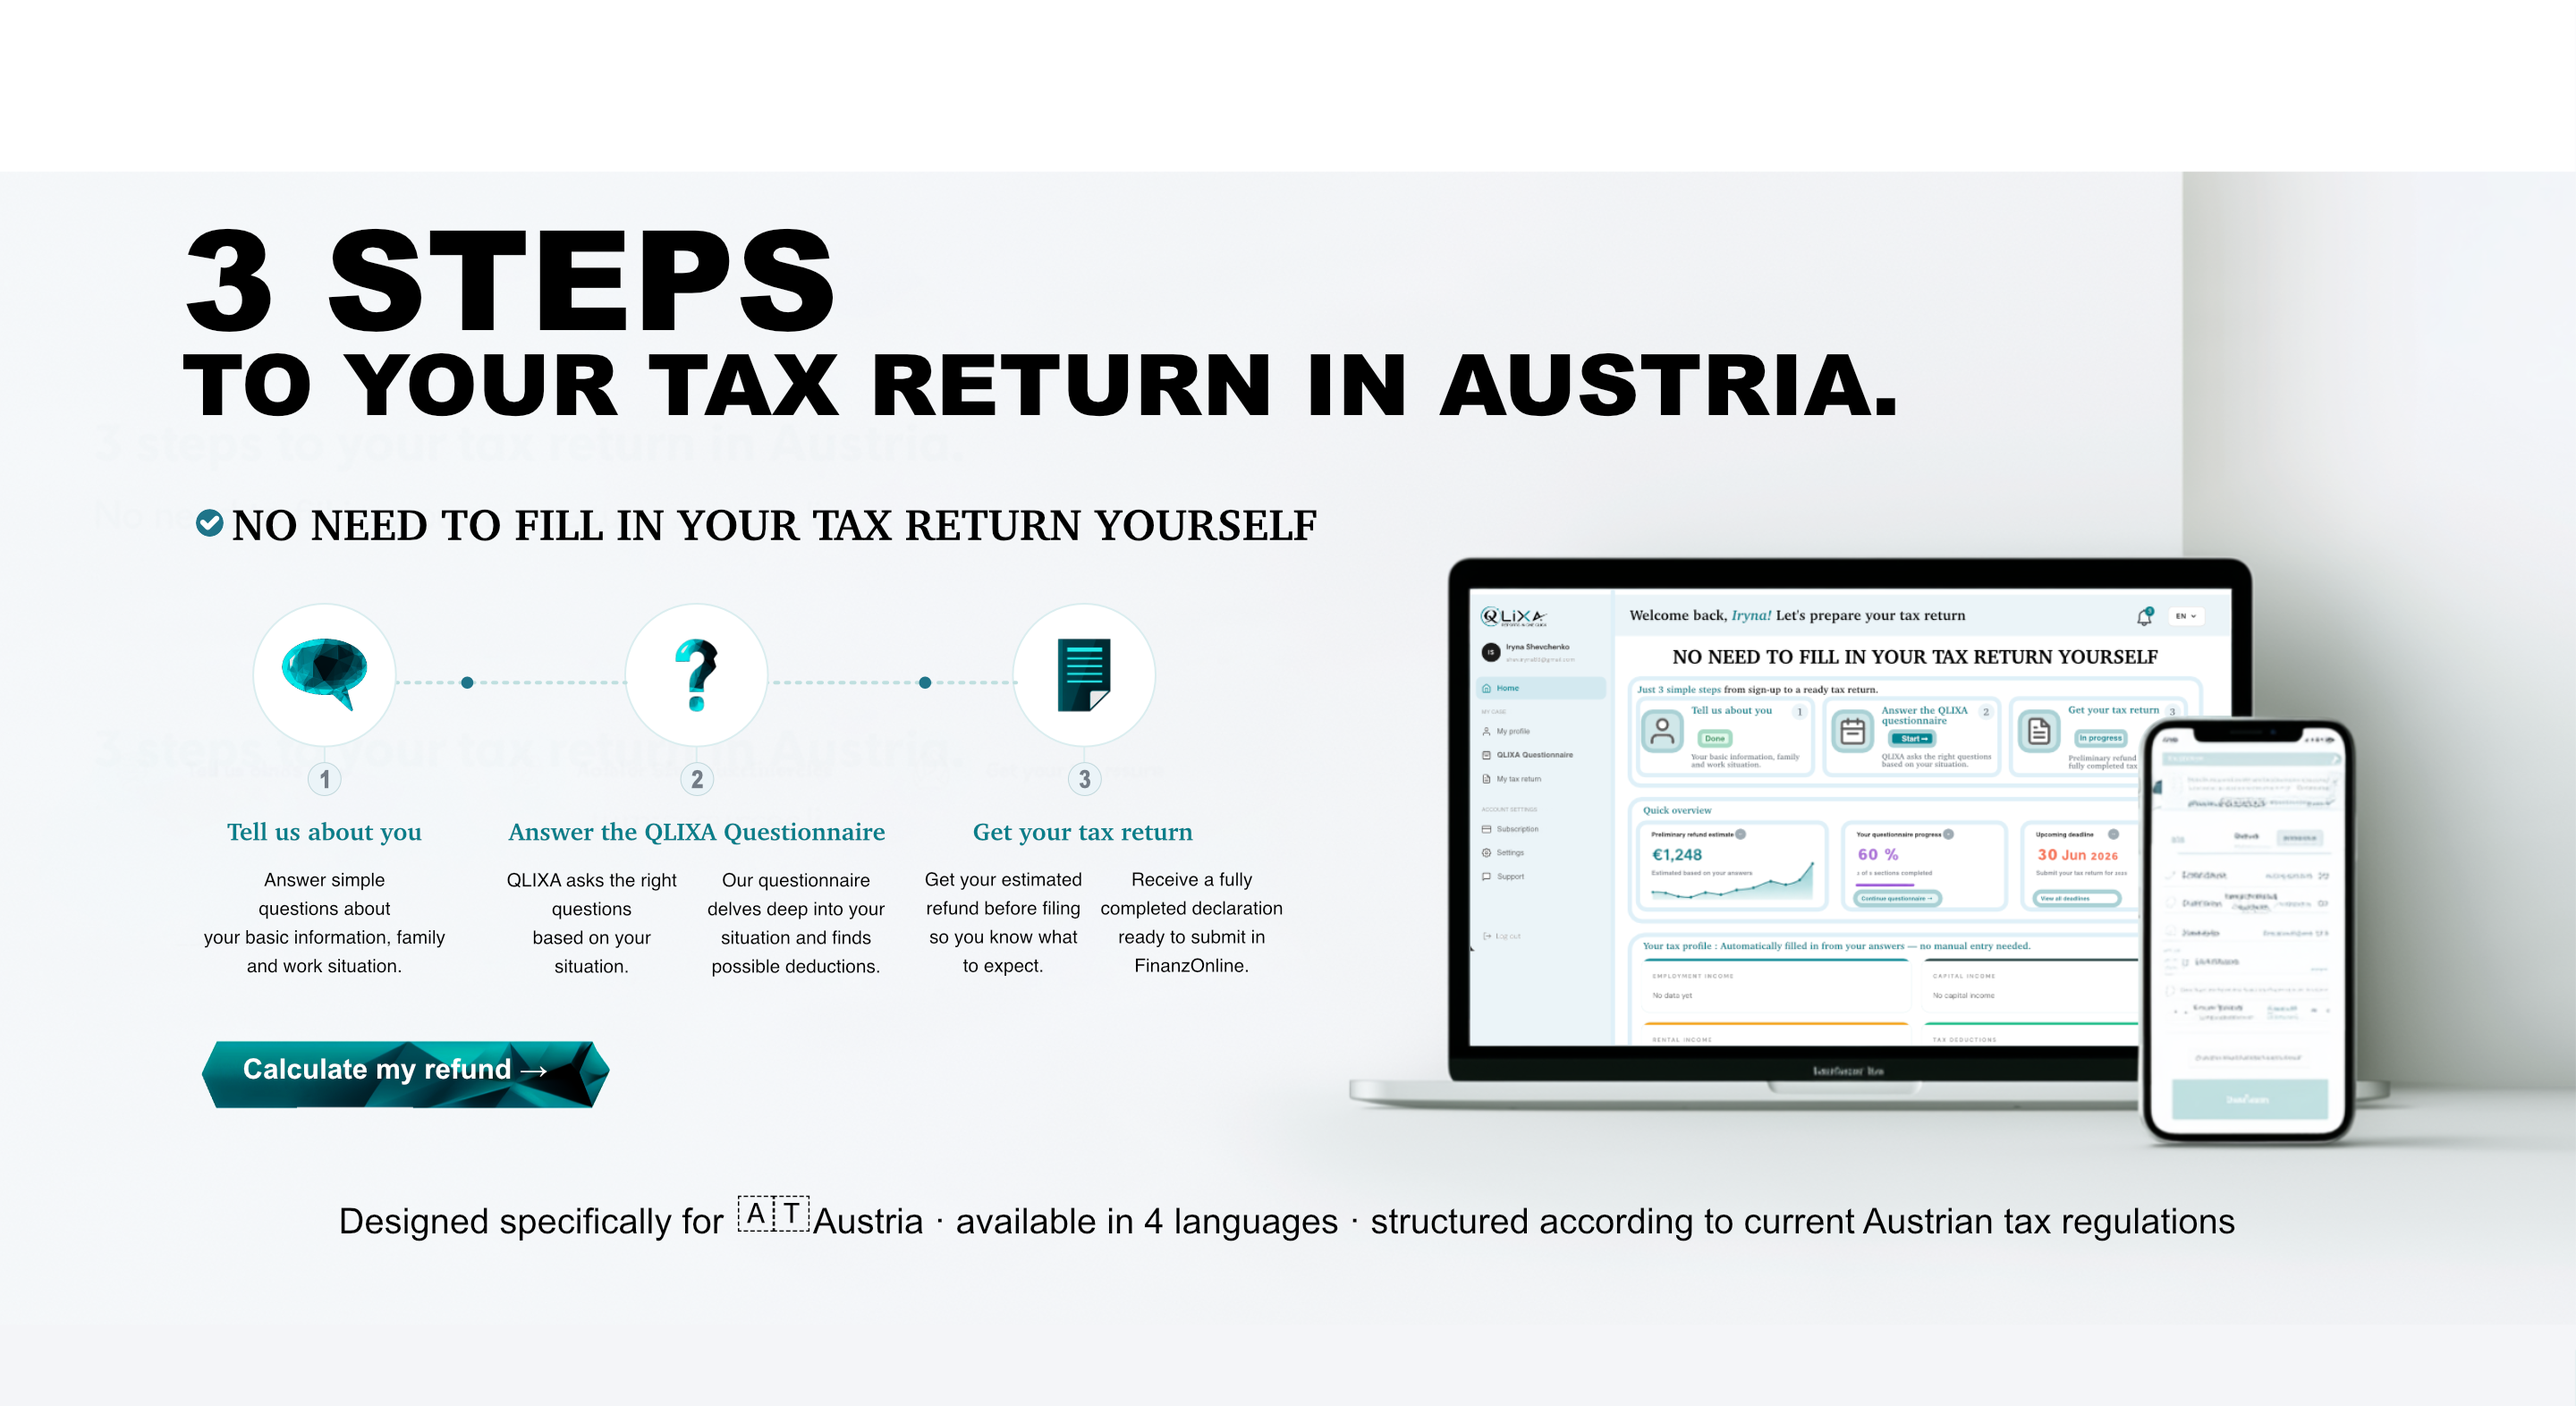
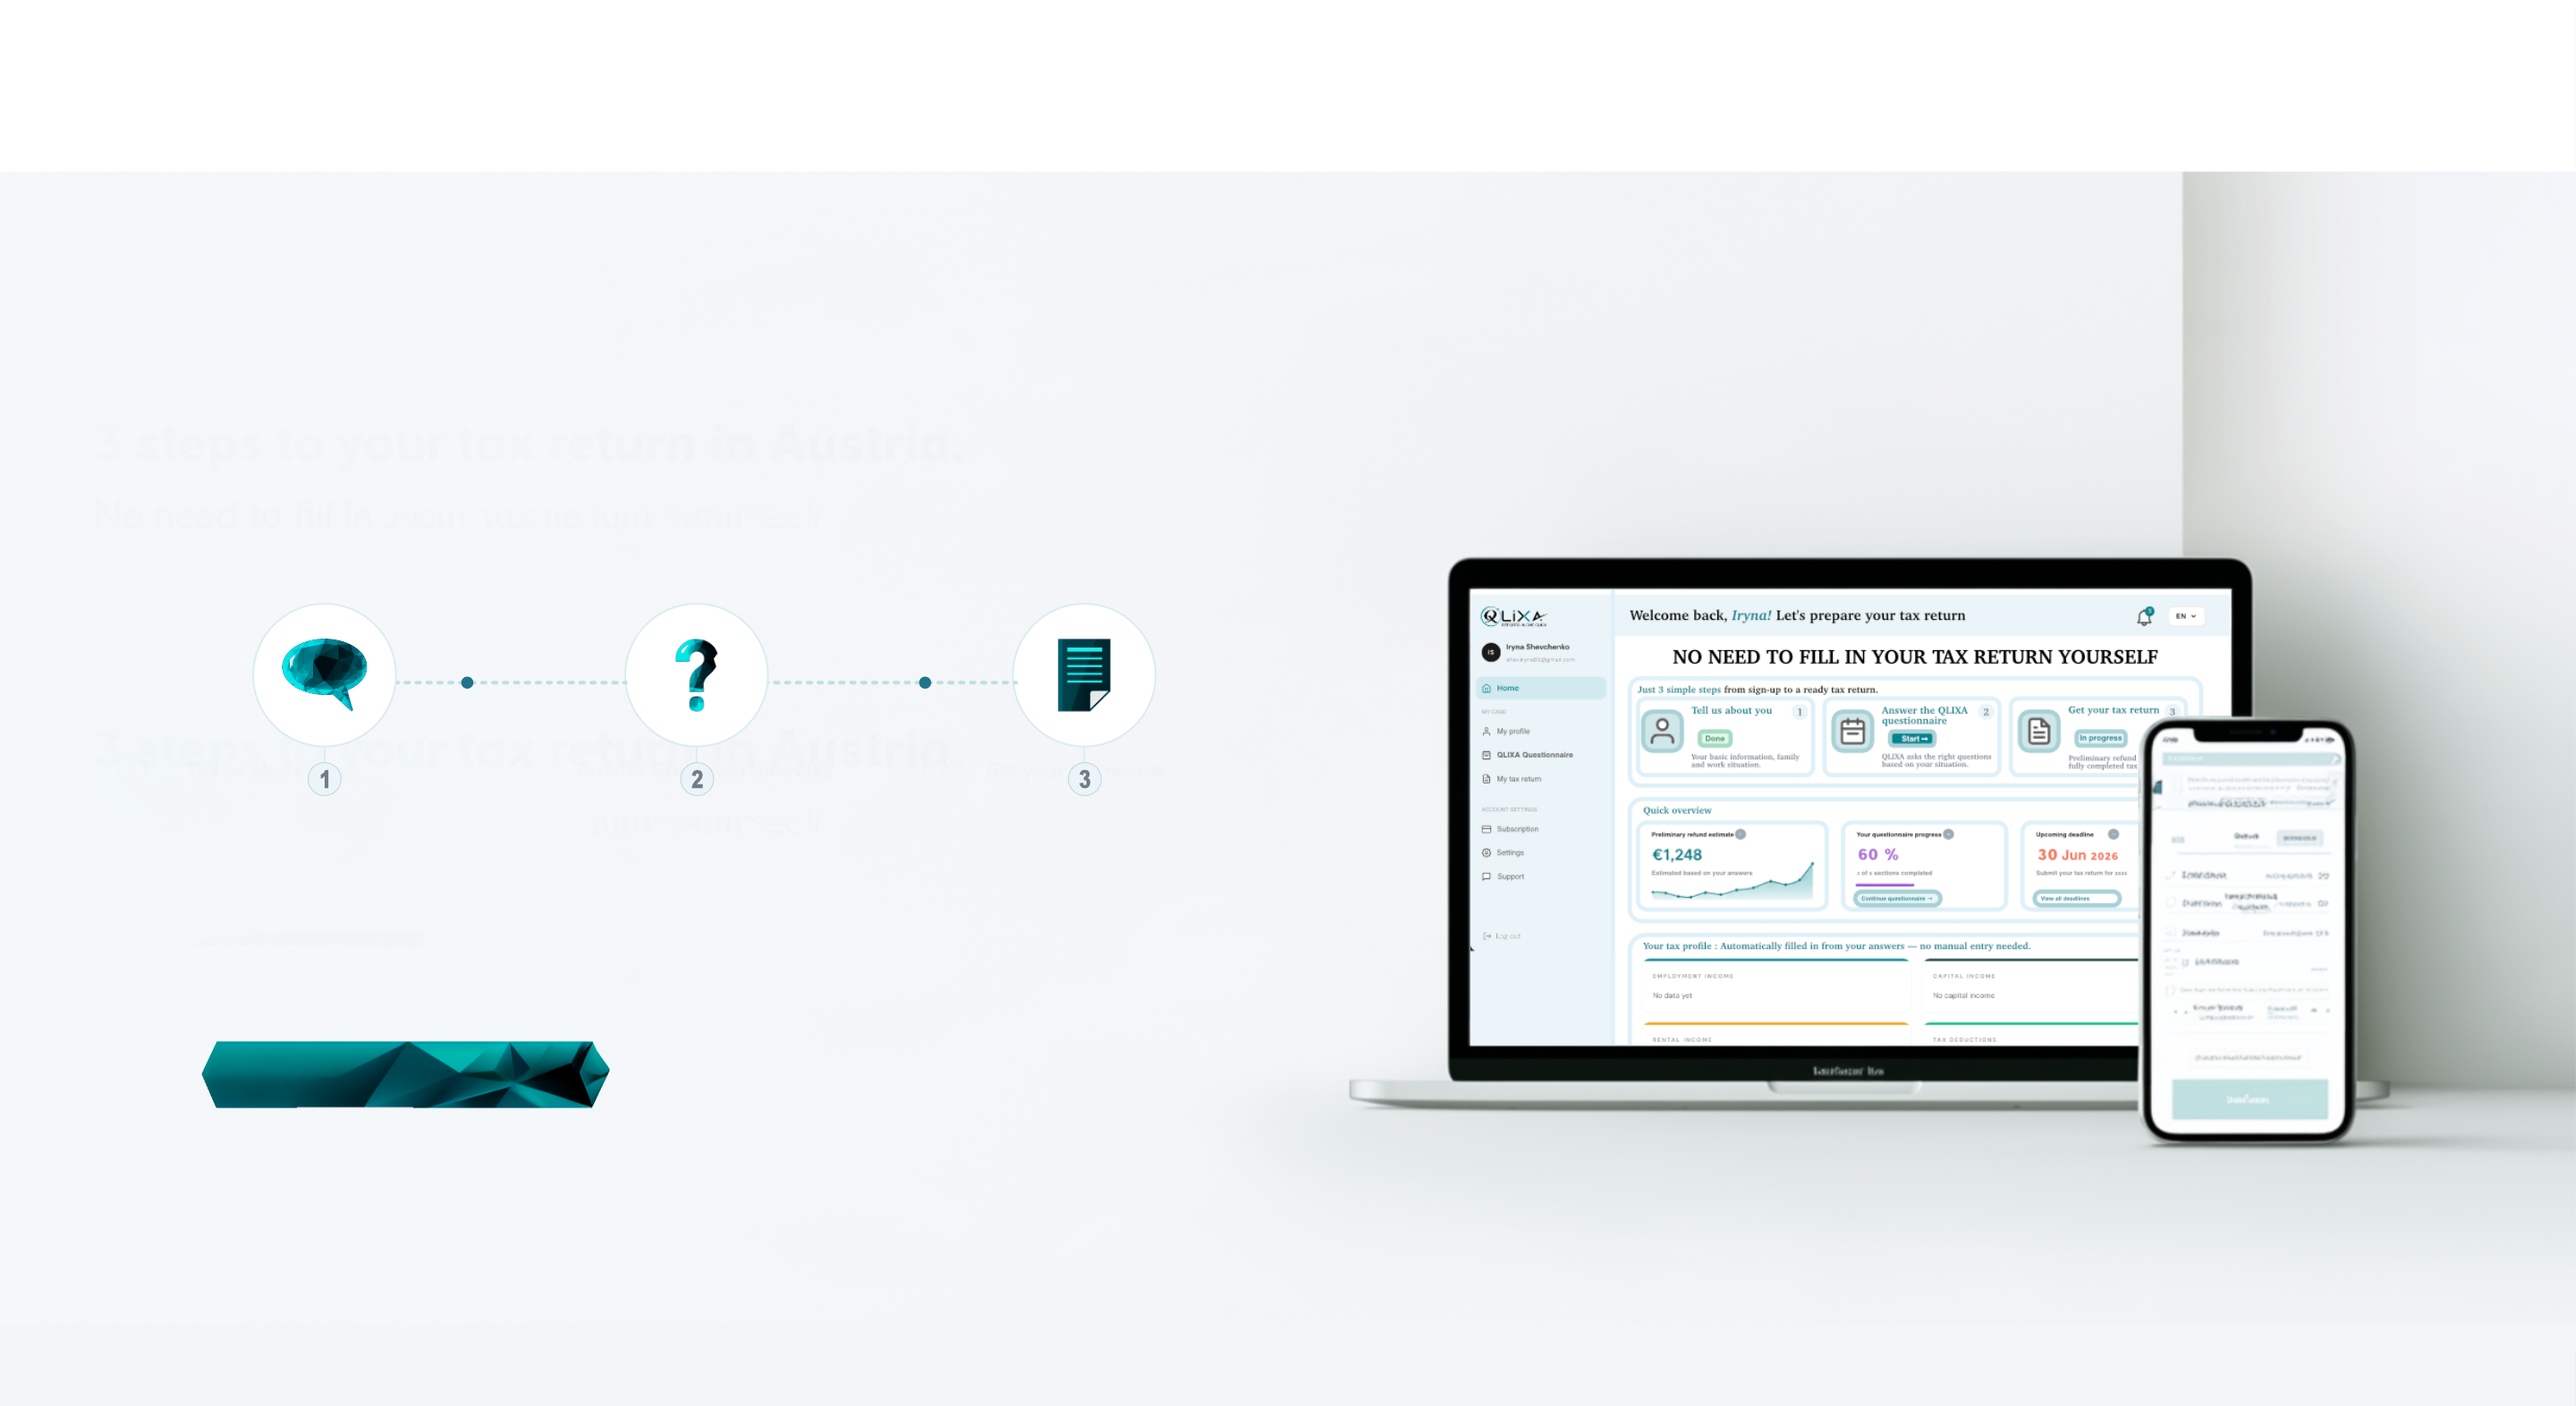
hero

diff --git a/src/app/page.tsx b/src/app/page.tsx
@@ -110,75 +110,55 @@ const HERO_SLIDE_DURATION = 2 // секунд на одну картинку
 // Тикер: іконка + текст, переклади на 4 мови
 type TickerItem = { icon: string; text: string }
 const TICKER_ICONS = [
-  'clients.png',
-  'suppliers.png',
-  'invoices.png',
-  'tax-declaration.png',
-  'tax-refund.png',
-  'kpi-dashboard.png',
-  'analytics.png',
   'deadlines.png',
-  'inventory.png',
-  'finanzonline.png',
-  'automation.png',
+  'invoices.png',
+  'suppliers.png',
   'languages.png',
+  'automation.png',
+  'clients.png',
+  'tax-refund.png',
+  'VAT-Reports.png',
 ]
 const TICKER_TEXT: Record<string, string[]> = {
   UA: [
-    'Керуйте клієнтами',
-    'Керуйте постачальниками',
-    'Створюйте рахунки',
-    'Допомога з податковою декларацією',
-    'Оцінка можливого щорічного повернення податку',
-    'Контролюйте KPI',
-    'Аналізуйте показники бізнесу',
-    'Не пропускайте важливі терміни',
-    'Керуйте складом',
-    'Отримуйте допомогу з FinanzOnline',
-    'Автоматизуйте рутинні процеси',
+    'Без запису на прийом',
+    'Без комісії з повернення',
+    'Самообслуговування',
     'Доступно 4 мовами',
+    'Розумна адаптивна анкета',
+    'Побудовано навколо твоєї ситуації',
+    'Попередній розрахунок повернення до подачі',
+    'Повністю заповнена податкова декларація',
   ],
   EN: [
-    'Manage Clients',
-    'Manage Suppliers',
-    'Create Invoices',
-    'Tax Return Assistance',
-    'Estimate Annual Tax Refund',
-    'Track KPI',
-    'Analyze Business Performance',
-    'Stay on Top of Deadlines',
-    'Manage Inventory',
-    'Get Help with FinanzOnline',
-    'Automate Routine Tasks',
-    'Available in 4 Languages',
+    'No appointment',
+    'No commission on your refund',
+    'Self-service',
+    'Available in 4 languages',
+    'Smart adaptive questionnaire',
+    'Built around your situation',
+    'Preliminary refund before filing',
+    'Fully completed tax declaration',
   ],
   DE: [
-    'Kunden verwalten',
-    'Lieferanten verwalten',
-    'Rechnungen erstellen',
-    'Unterstützung bei der Steuererklärung',
-    'Mögliche jährliche Steuererstattung einschätzen',
-    'KPIs verfolgen',
-    'Geschäftsentwicklung analysieren',
-    'Fristen im Blick behalten',
-    'Lager verwalten',
-    'Hilfe mit FinanzOnline',
-    'Routineaufgaben automatisieren',
+    'Kein Termin nötig',
+    'Keine Provision auf deine Rückerstattung',
+    'Selbstbedienung',
     'In 4 Sprachen verfügbar',
+    'Intelligenter, adaptiver Fragebogen',
+    'Auf deine Situation zugeschnitten',
+    'Vorläufige Rückerstattung vor der Einreichung',
+    'Vollständig ausgefüllte Steuererklärung',
   ],
   RU: [
-    'Управляйте клиентами',
-    'Управляйте поставщиками',
-    'Создавайте счета',
-    'Помощь с налоговой декларацией',
-    'Оценка возможного ежегодного возврата налога',
-    'Контролируйте KPI',
-    'Анализируйте показатели бизнеса',
-    'Не пропускайте важные сроки',
-    'Управляйте складом',
-    'Получайте помощь с FinanzOnline',
-    'Автоматизируйте рутинные задачи',
+    'Без записи на приём',
+    'Без комиссии с возврата',
+    'Самообслуживание',
     'Доступно на 4 языках',
+    'Умная адаптивная анкета',
+    'Построено вокруг твоей ситуации',
+    'Предварительный расчёт возврата до подачи',
+    'Полностью заполненная налоговая декларация',
   ],
 }
 const TICKER_ITEMS: Record<string, TickerItem[]> = Object.fromEntries(
